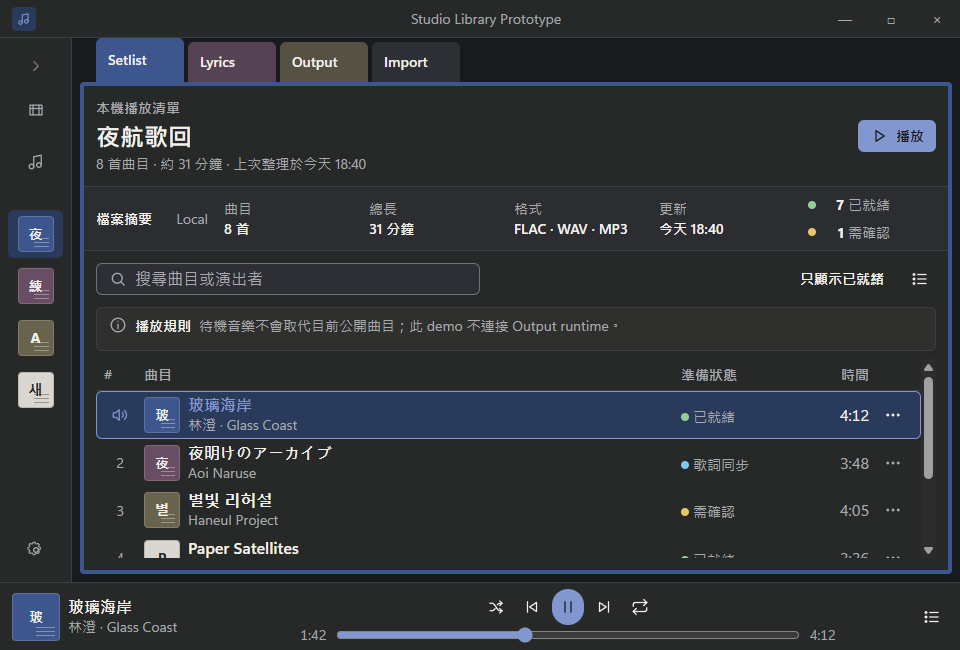
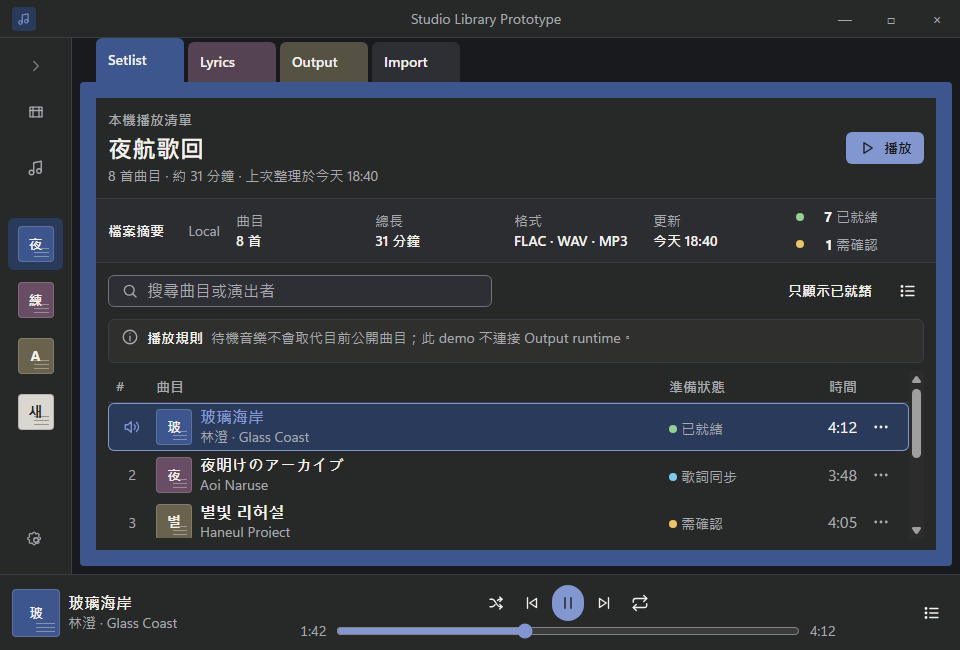
docs(design): validate ink-framed light palette

diff --git a/prototypes/studio-library-workspace/prototype.css b/prototypes/studio-library-workspace/prototype.css
@@ -2115,3 +2115,56 @@ body.is-dossier-embed .dossier {
     opacity: 0.72;
   }
 }
+
+/* Prototype-only review palette. Production Token v2 remains unchanged until
+   the owner accepts this regional light-theme composition. */
+:root[data-ui-theme='light'][data-prototype-palette='ink-paper']
+  .prototype-surface {
+  --ui-color-canvas: var(--ui-palette-warm-neutral-300);
+  --ui-color-surface: var(--ui-palette-warm-neutral-100);
+  --ui-color-surface-raised: var(--ui-palette-warm-neutral-50);
+  --ui-color-surface-hover: var(--ui-palette-warm-neutral-300);
+  --ui-color-surface-active: var(--ui-palette-neutral-200);
+  --ui-color-surface-selected: var(--ui-palette-indigo-200);
+  --ui-color-border: var(--ui-palette-warm-neutral-400);
+  --ui-color-border-strong: var(--ui-palette-neutral-400);
+  --ui-color-accent-soft: var(--ui-palette-indigo-200);
+  --ui-color-folder-primary: var(--ui-palette-indigo-600);
+  --ui-color-folder-secondary: var(--ui-palette-plum-300);
+  --ui-color-folder-tertiary: var(--ui-palette-olive-300);
+}
+
+:root[data-ui-theme='light'][data-prototype-palette='ink-paper']
+  .prototype-surface
+  :is(.titlebar, .sidebar, .player-bar) {
+  color-scheme: dark;
+  color: var(--ui-color-text);
+  --ui-color-scheme: dark;
+  --ui-color-canvas: var(--ui-palette-neutral-950);
+  --ui-color-surface: var(--ui-palette-neutral-900);
+  --ui-color-surface-raised: var(--ui-palette-neutral-800);
+  --ui-color-surface-hover: var(--ui-palette-neutral-700);
+  --ui-color-surface-active: var(--ui-palette-neutral-600);
+  --ui-color-surface-selected: var(--ui-palette-indigo-900);
+  --ui-color-text: var(--ui-palette-warm-neutral-100);
+  --ui-color-text-muted: var(--ui-palette-neutral-300);
+  --ui-color-text-subtle: var(--ui-palette-neutral-400);
+  --ui-color-border: var(--ui-palette-neutral-700);
+  --ui-color-border-strong: var(--ui-palette-neutral-500);
+  --ui-color-accent: var(--ui-palette-indigo-400);
+  --ui-color-accent-hover: var(--ui-palette-indigo-300);
+  --ui-color-accent-active: var(--ui-palette-indigo-500);
+  --ui-color-accent-soft: var(--ui-palette-indigo-900);
+  --ui-color-accent-contrast: var(--ui-palette-neutral-950);
+  --ui-color-focus: var(--ui-palette-indigo-300);
+  --ui-color-current: var(--ui-palette-indigo-300);
+  --ui-color-current-soft: var(--ui-palette-indigo-900);
+  --ui-color-neutral: var(--ui-palette-cool-gray-300);
+  --ui-color-info: var(--ui-palette-sky-400);
+  --ui-color-success: var(--ui-palette-green-400);
+  --ui-color-warning: var(--ui-palette-amber-400);
+  --ui-color-live: var(--ui-palette-red-400);
+  --ui-color-danger: var(--ui-palette-red-400);
+  --ui-color-danger-contrast: var(--ui-palette-neutral-950);
+  --ui-color-status-contrast: var(--ui-palette-neutral-950);
+}

diff --git a/prototypes/studio-library-workspace/capture-app/index.js b/prototypes/studio-library-workspace/capture-app/index.js
@@ -30,6 +30,14 @@ const variants = [
     density: 'standard',
   },
   {
+    name: 'review/studio-library-ink-paper-1440x810.png',
+    width: 1440,
+    height: 810,
+    theme: 'light',
+    palette: 'ink-paper',
+    density: 'standard',
+  },
+  {
     name: 'studio-library-dark-960x650.png',
     width: 960,
     height: 650,
@@ -47,6 +55,7 @@ const variants = [
 
 let captureInProgress = true;
 
+app.disableHardwareAcceleration();
 app.setPath('userData', captureDataDir);
 app.commandLine.appendSwitch('force-device-scale-factor', '1');
 app.commandLine.appendSwitch(
@@ -232,7 +241,12 @@ async function captureVariant(variant) {
     useContentSize: true,
     frame: false,
     show: false,
-    backgroundColor: variant.theme === 'light' ? '#e8e4dd' : '#191a1e',
+    backgroundColor:
+      variant.palette === 'ink-paper'
+        ? '#dad7d0'
+        : variant.theme === 'light'
+          ? '#e8e4dd'
+          : '#191a1e',
     webPreferences: {
       backgroundThrottling: false,
       contextIsolation: true,
@@ -245,6 +259,7 @@ async function captureVariant(variant) {
   const url = new URL(entryUrl.href);
   url.searchParams.set('clean', '1');
   url.searchParams.set('theme', variant.theme);
+  if (variant.palette) url.searchParams.set('palette', variant.palette);
   url.searchParams.set('density', variant.density);
   url.searchParams.set('motion', 'reduced');
   url.searchParams.set('scenario', 'populated');
@@ -254,6 +269,7 @@ async function captureVariant(variant) {
   await waitForStablePaint(window);
   const image = await window.webContents.capturePage();
   const outputPath = path.join(outputDir, variant.name);
+  fs.mkdirSync(path.dirname(outputPath), { recursive: true });
   fs.writeFileSync(outputPath, image.toPNG());
   console.log(`captured ${outputPath}`);
   if (variant === variants[0]) {

diff --git a/prototypes/studio-library-workspace/prototype.js b/prototypes/studio-library-workspace/prototype.js
@@ -91,6 +91,11 @@ function setTheme(value) {
   document.querySelector('[data-control="theme"]').value = value;
 }
 
+function setPrototypePalette(value) {
+  if (value === 'ink-paper') root.dataset.prototypePalette = 'ink-paper';
+  else delete root.dataset.prototypePalette;
+}
+
 window.addEventListener('message', (event) => {
   if (
     event.source !== window.parent ||
@@ -920,6 +925,9 @@ document.addEventListener('keydown', (event) => {
 });
 
 setTheme(params.get('theme') === 'light' ? 'light' : 'dark');
+setPrototypePalette(
+  params.get('palette') === 'ink-paper' ? 'ink-paper' : 'default',
+);
 setDensity(params.get('density') === 'compact' ? 'compact' : 'standard');
 setMotion(params.get('motion') === 'reduced' ? 'reduced' : 'default');
 setScenario(params.get('scenario') ?? 'populated');

diff --git a/prototypes/studio-library-workspace/index.html b/prototypes/studio-library-workspace/index.html
@@ -18,6 +18,7 @@
       class="prototype-surface"
       data-ui-renderer="prototype"
       data-ui-surface="studio-library-prototype"
+      data-ui-surface-root="true"
       data-ui-system="v2"
     >
       <svg class="svg-definitions" aria-hidden="true">
